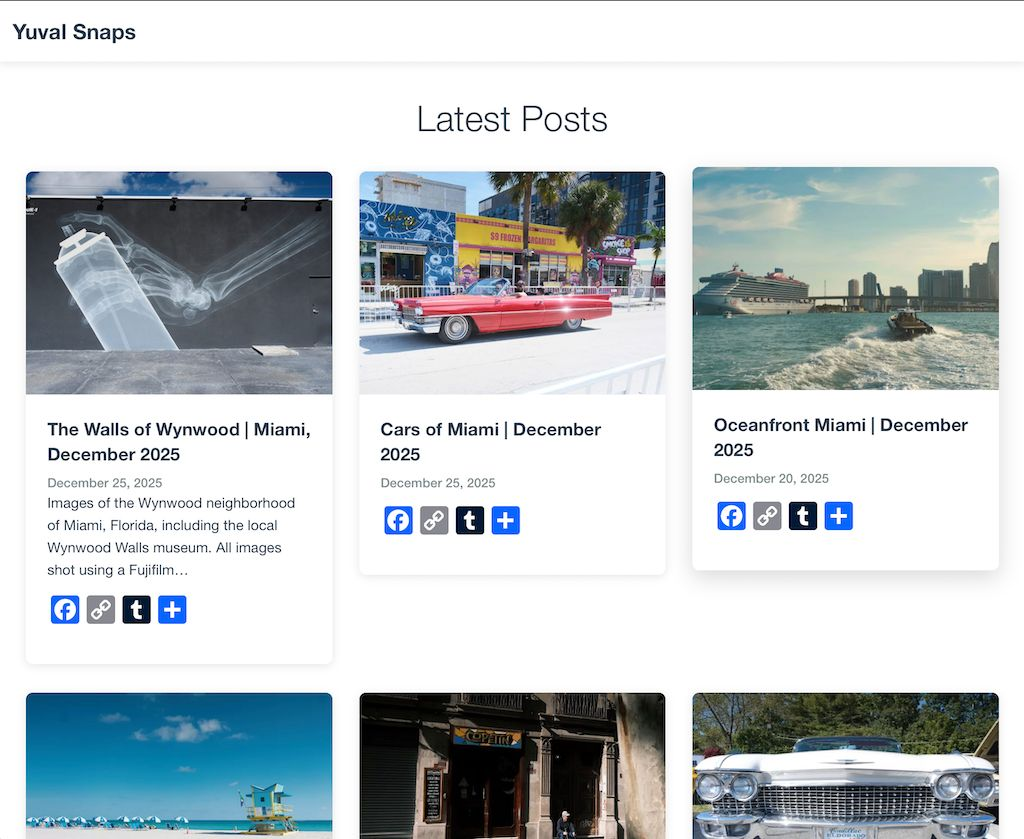
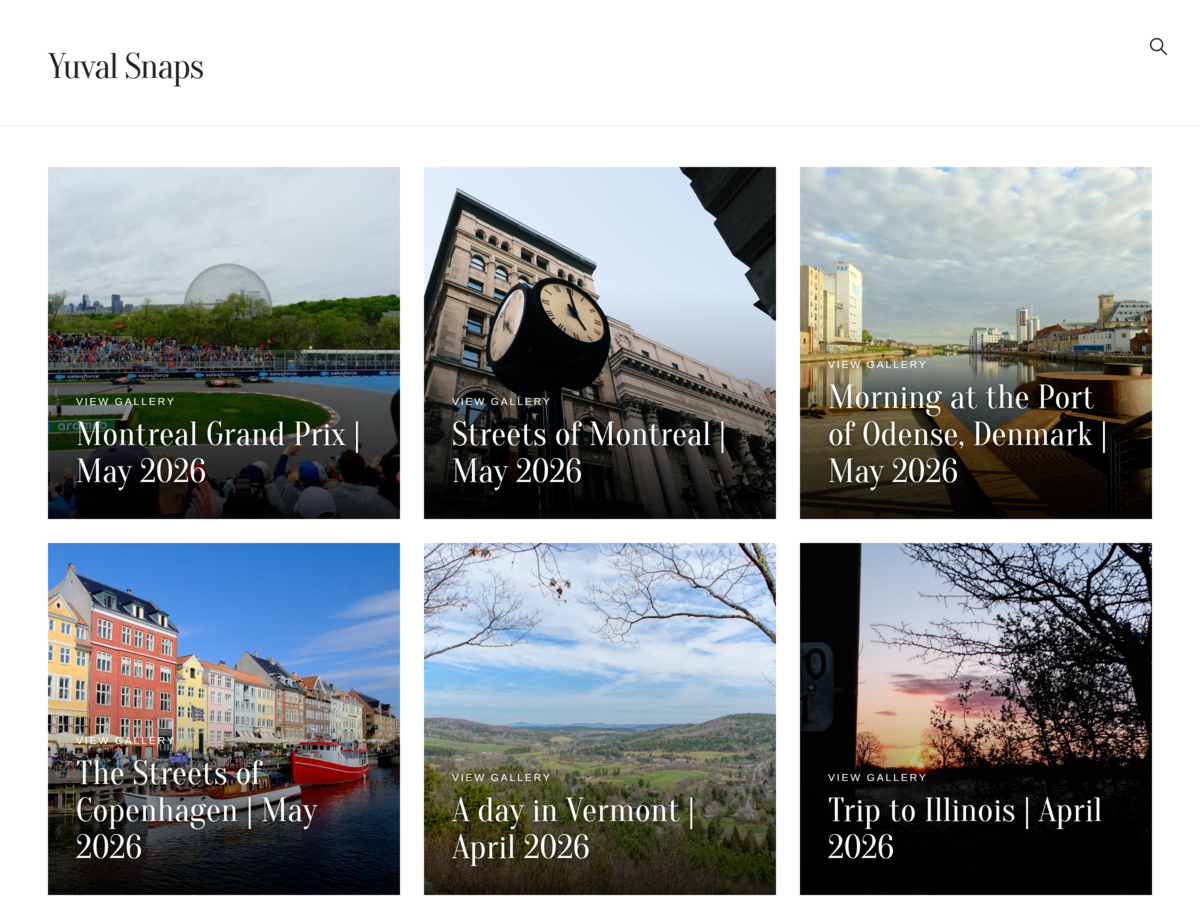
Replace theme screenshot with current 1200x900 portfolio capture
Resize the owner-supplied 2400x1800 PNG to 1200x900 without cropping, strip metadata, and replace the old incorrectly named JPEG screenshot. Document source, dimensions, verification, and outstanding screenshot-photo licensing confirmation in both READMEs. No distribution rebuild or push included.

diff --git a/README.md b/README.md
@@ -368,3 +368,7 @@ The header no longer manually emits a `<title>` using `wp_title()`. WordPress pr
 Validation: live HTTP checks for the homepage, regular post, matching/empty search, and missing URL confirmed one title, main element, footer, body, and HTML document. The missing URL returned 404 with the correct message and search form. PHP syntax and Git whitespace checks passed. Repeatable fallback tests in `tests/template-smoke.php` passed for populated, paginated, and empty main queries; run each in a separate WP-CLI process, e.g. `wp eval-file /path/to/repo/tests/template-smoke.php populated`, then `paginated` and `empty`. The test requires a populated WordPress test site and performs no database writes. Separate processes are necessary because WordPress includes header/footer templates once per request.
 
 No release/version update, new distribution, or remote push was made. Theme Check and the broader submission audit remain pending.
+
+## Submission screenshot replacement
+
+Replaced the old screenshot with the site owner's supplied `yuvalzukerman.com_page_2.png` portfolio capture. The source was a 2400 × 1800 PNG with the correct 4:3 ratio; it was resized to 1200 × 900 without cropping and unnecessary metadata was stripped. The installed `screenshot.png` is now actual PNG data and shows the current cover-grid design without browser controls or the WordPress admin bar. This addresses the reported screenshot dimensions requirement. Screenshot photography licensing/attribution still needs confirmation before WordPress.org submission; supplying a screenshot alone does not establish a GPL-compatible redistribution license for its photographs.

diff --git a/Themes/vibe-photo-theme/README.md b/Themes/vibe-photo-theme/README.md
@@ -355,3 +355,7 @@ The header no longer manually emits a `<title>` using `wp_title()`. WordPress pr
 Validation: live HTTP checks for the homepage, regular post, matching/empty search, and missing URL confirmed one title, main element, footer, body, and HTML document. The missing URL returned 404 with the correct message and search form. PHP syntax and Git whitespace checks passed. Repeatable fallback tests in `tests/template-smoke.php` passed for populated, paginated, and empty main queries; run each in a separate WP-CLI process, e.g. `wp eval-file /path/to/repo/tests/template-smoke.php populated`, then `paginated` and `empty`. The test requires a populated WordPress test site and performs no database writes. Separate processes are necessary because WordPress includes header/footer templates once per request.
 
 No release/version update, new distribution, or remote push was made. Theme Check and the broader submission audit remain pending.
+
+## Submission screenshot replacement
+
+Replaced the old screenshot with the site owner's supplied `yuvalzukerman.com_page_2.png` portfolio capture. The source was a 2400 × 1800 PNG with the correct 4:3 ratio; it was resized to 1200 × 900 without cropping and unnecessary metadata was stripped. The installed `screenshot.png` is now actual PNG data and shows the current cover-grid design without browser controls or the WordPress admin bar. This addresses the reported screenshot dimensions requirement. Screenshot photography licensing/attribution still needs confirmation before WordPress.org submission; supplying a screenshot alone does not establish a GPL-compatible redistribution license for its photographs.
